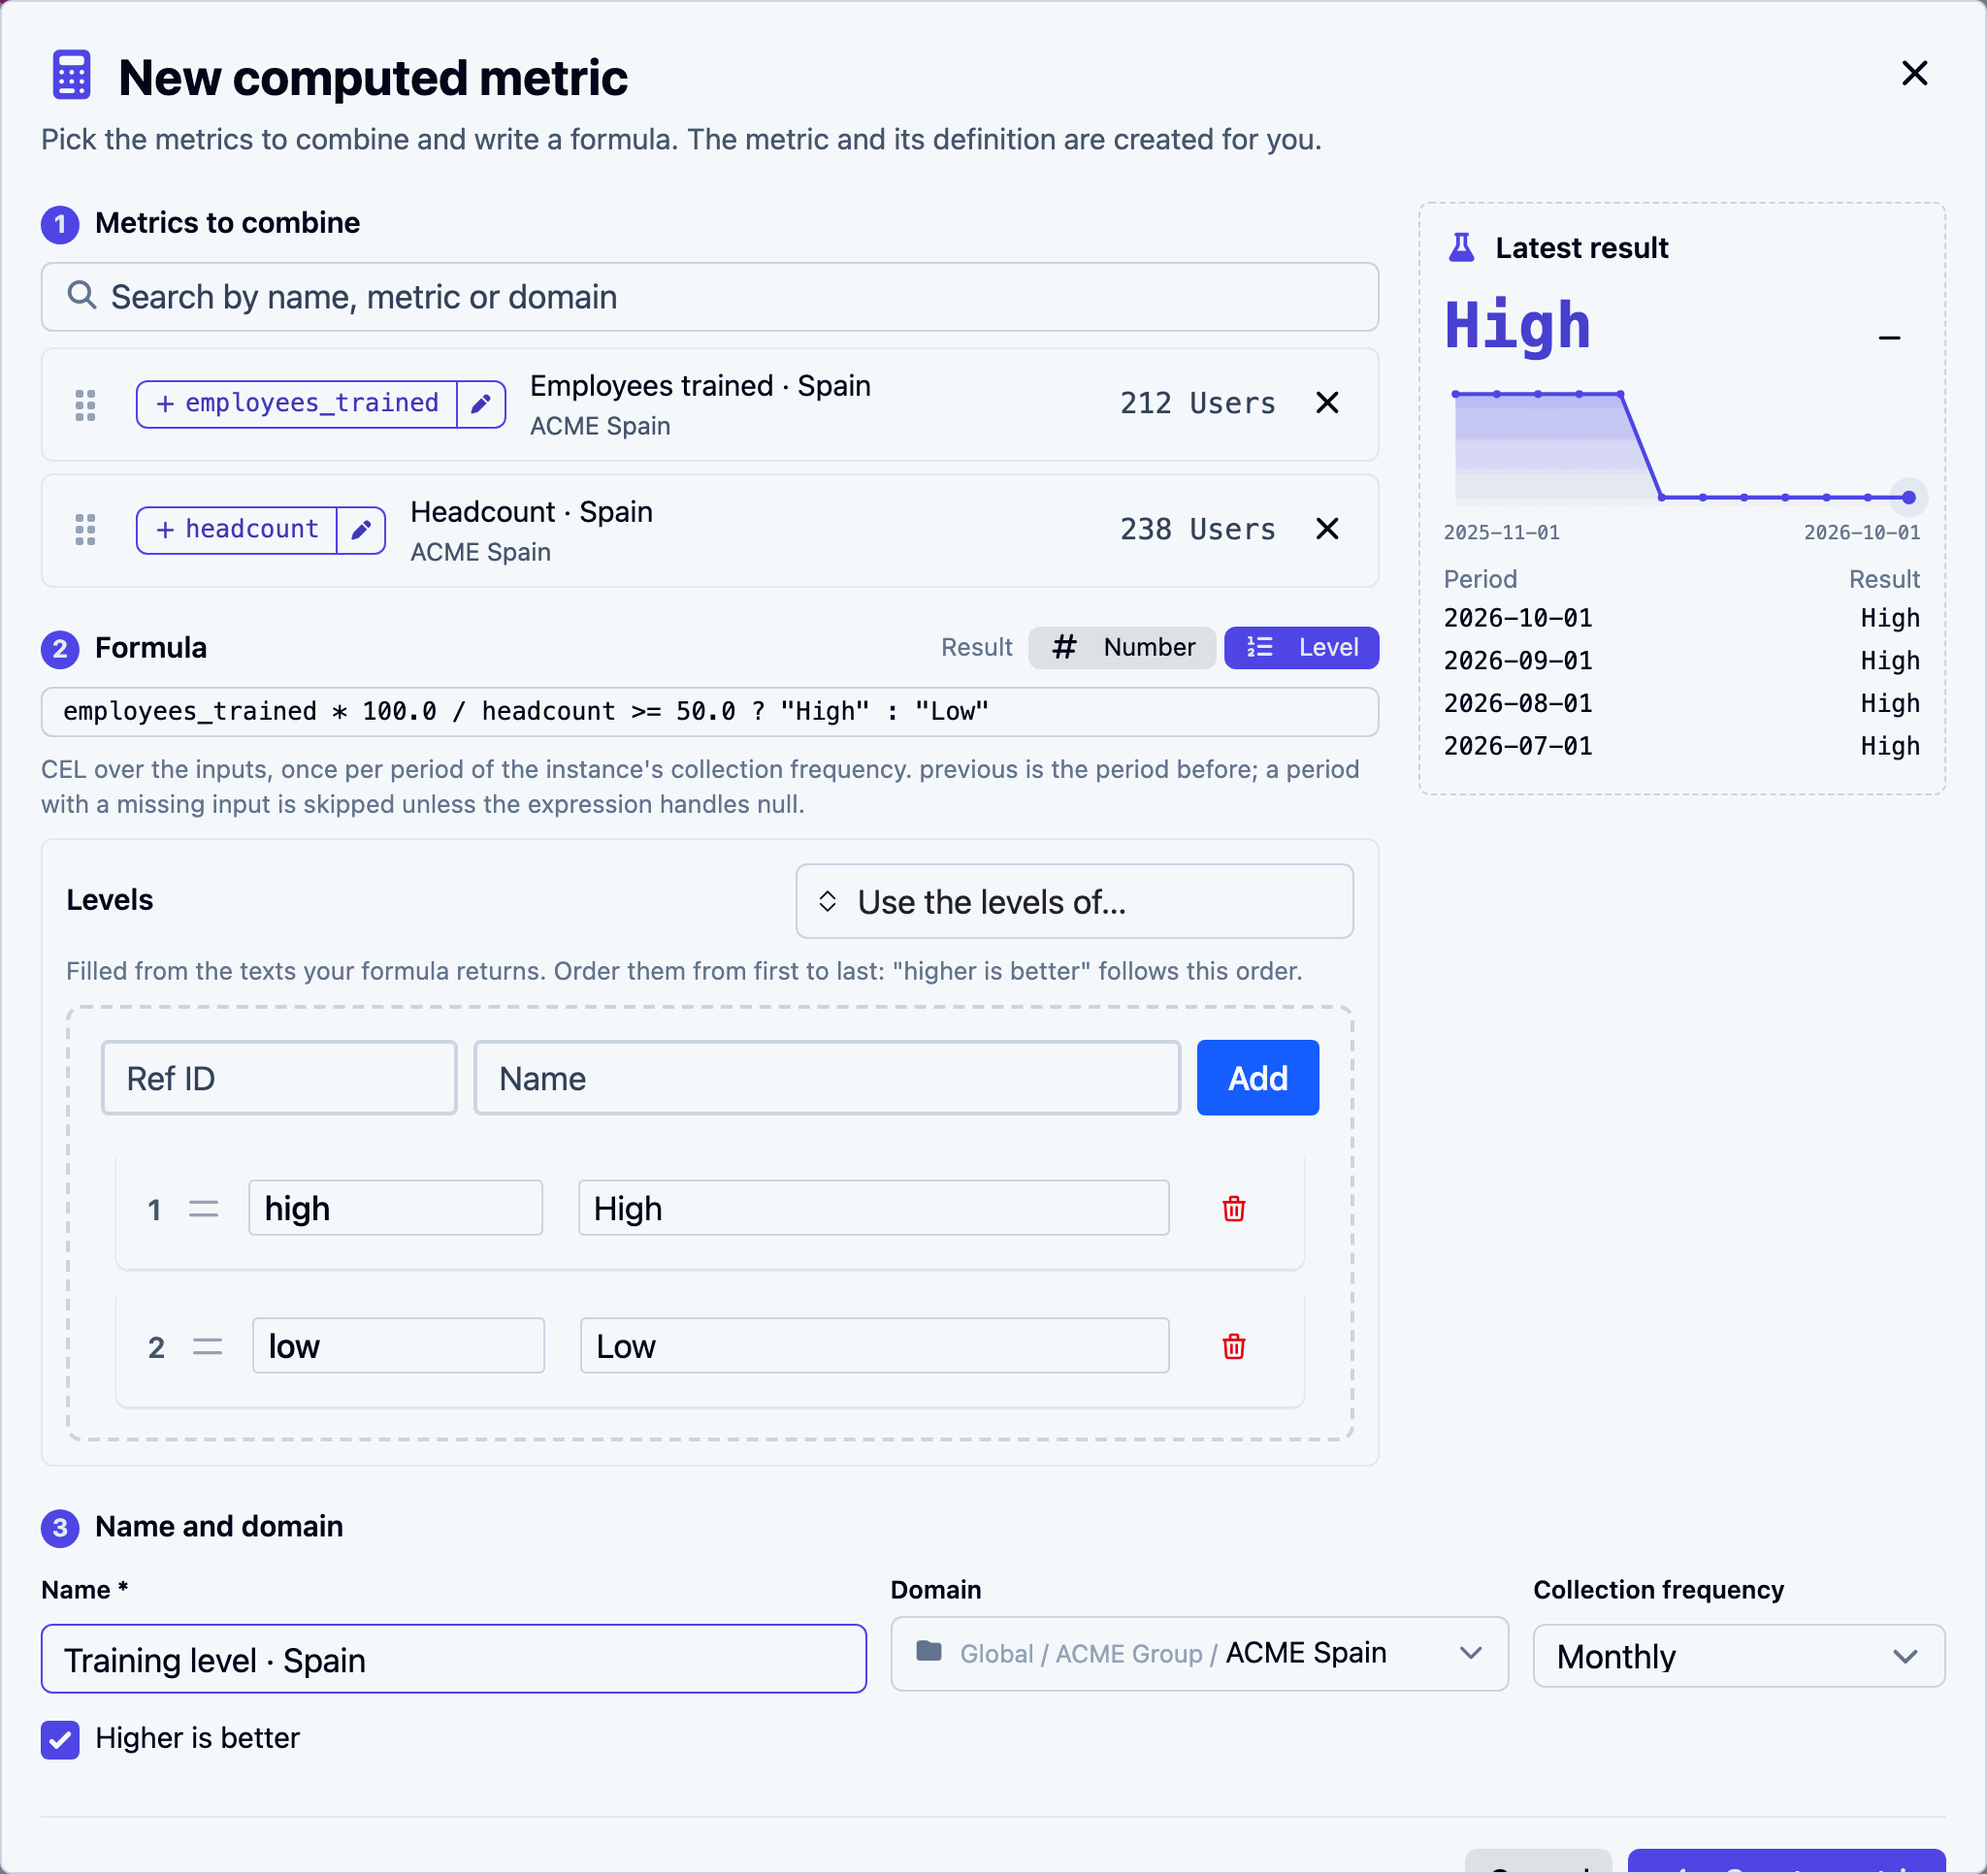
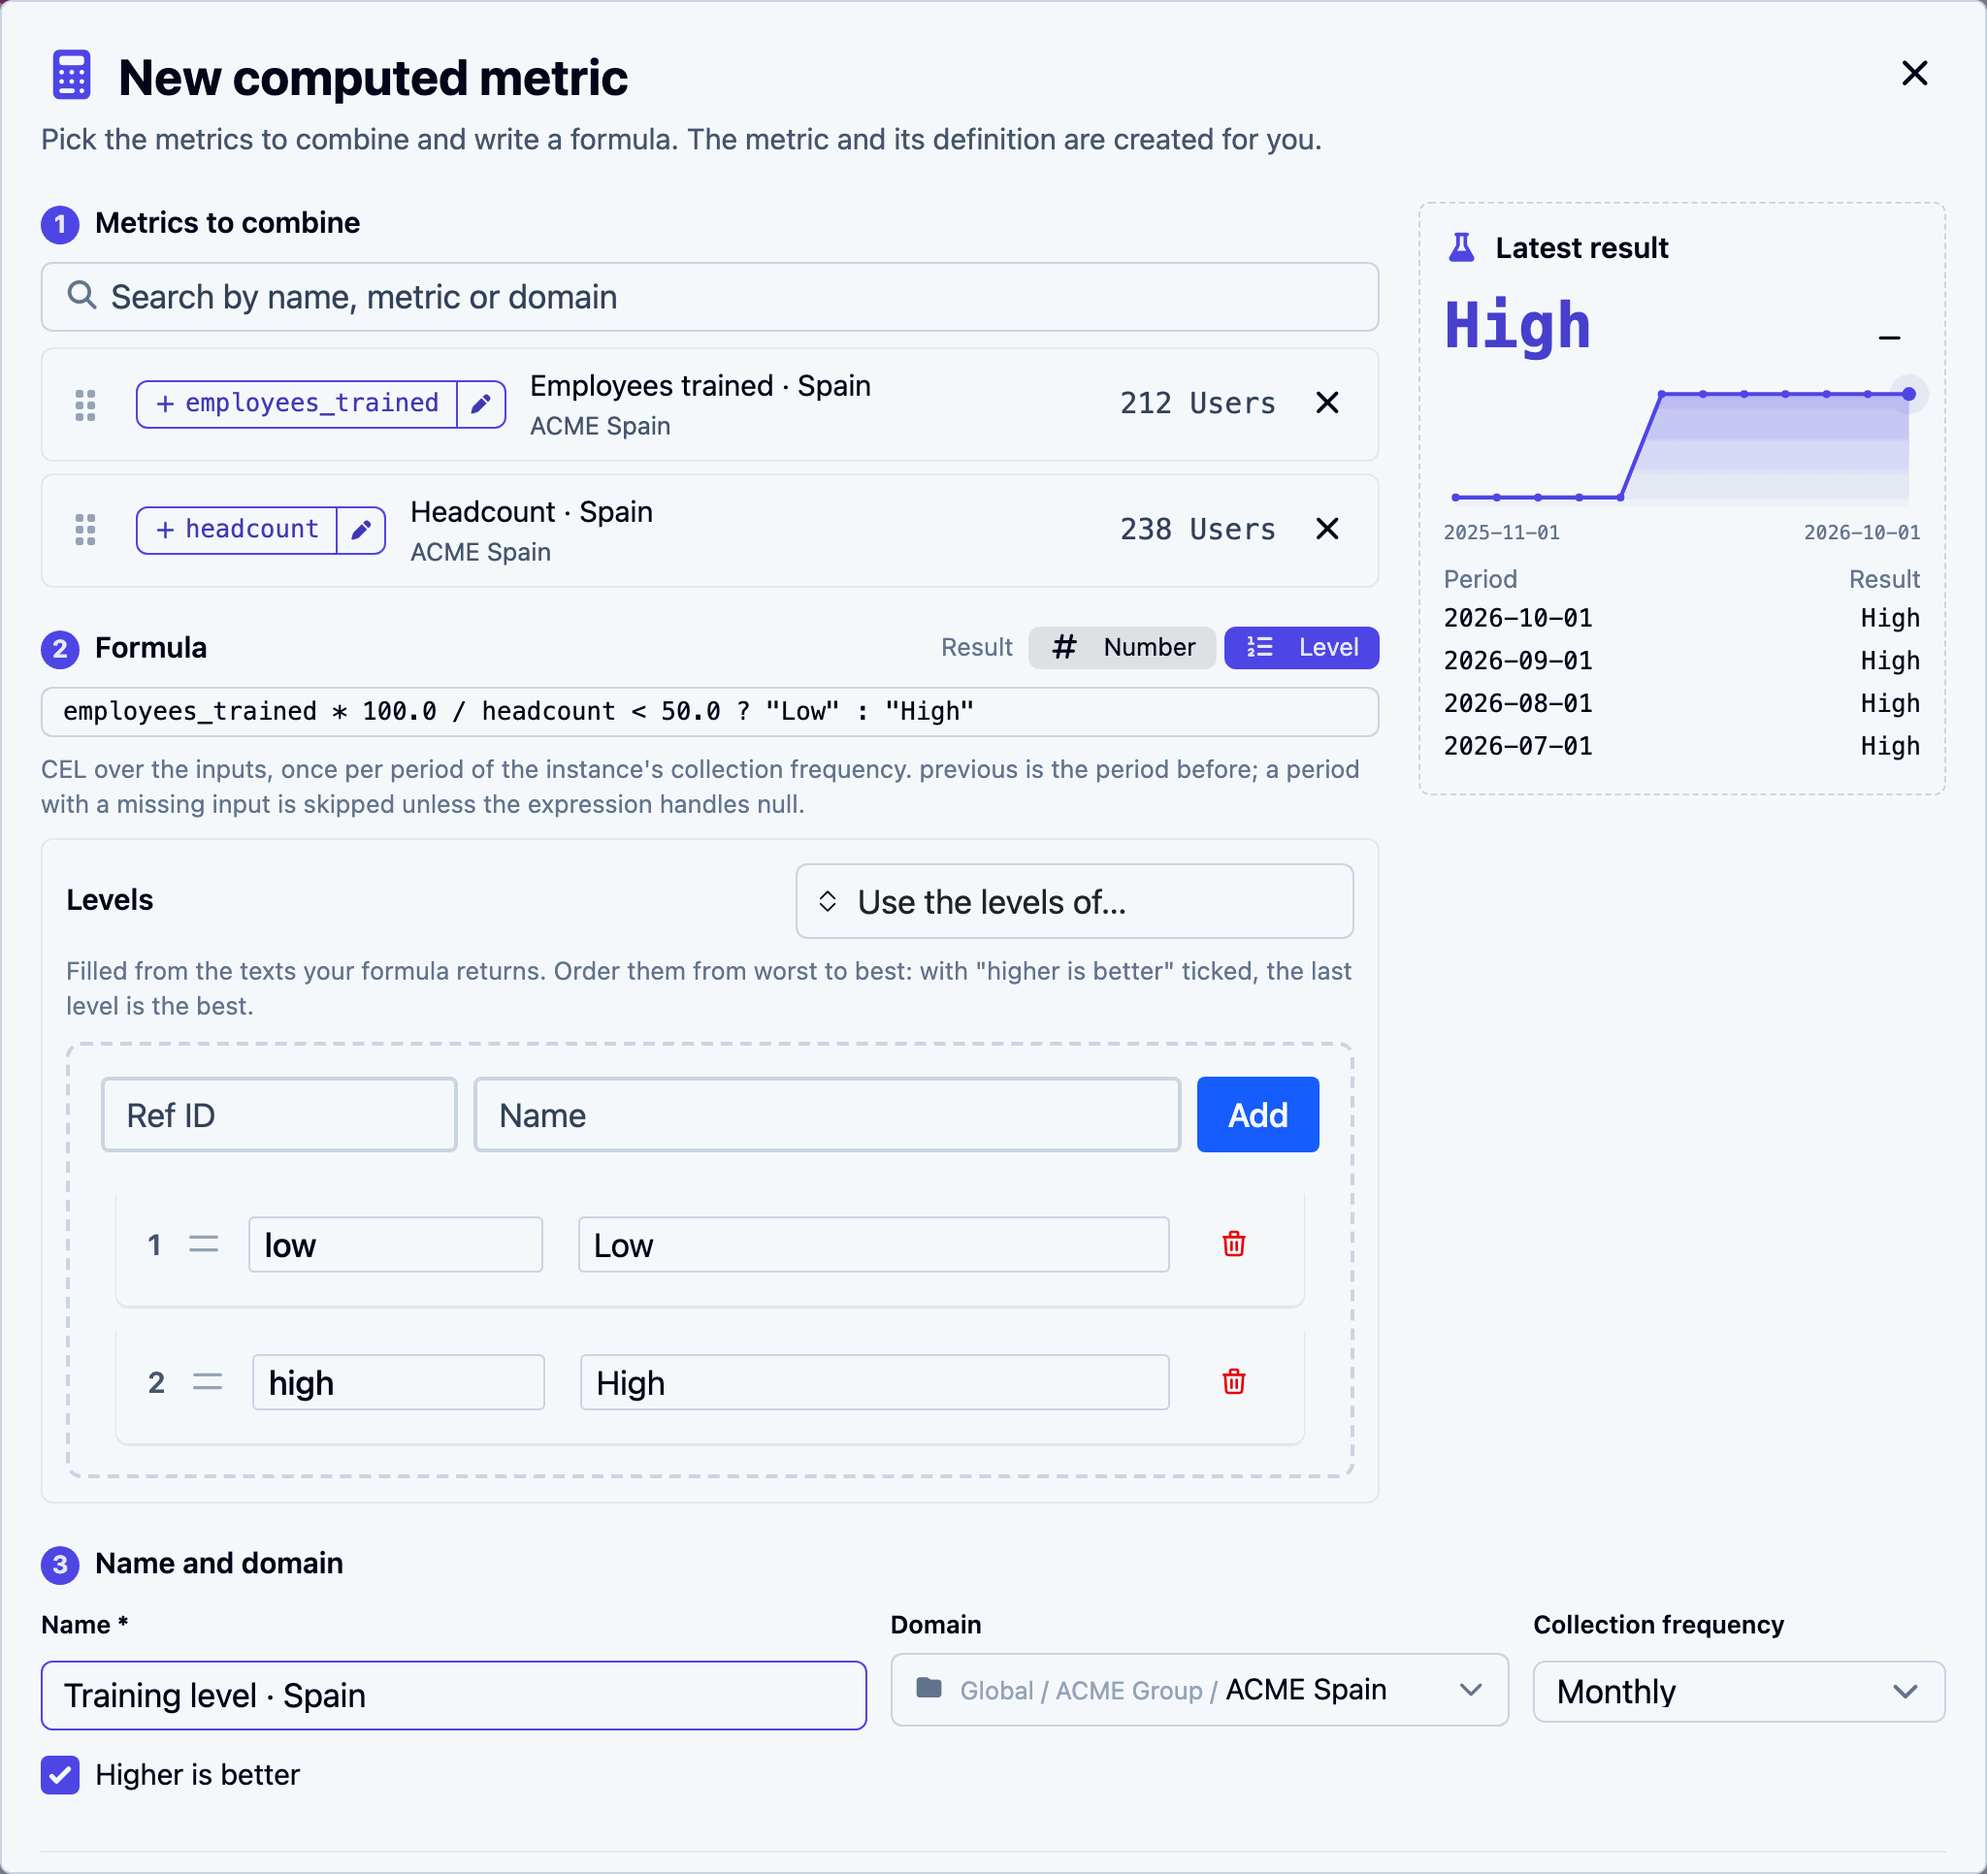
fix(metrology): list threshold levels worst first so higher is better reads them right

diff --git a/frontend/src/lib/utils/derived-metrics.ts b/frontend/src/lib/utils/derived-metrics.ts
@@ -469,5 +469,7 @@ export function levelIndex(value: unknown, levels: Level[]): number | null {
 export function levelStarter(keys: string[]): string {
 	if (!keys.length) return '';
 	const measure = keys.length >= 2 ? `${keys[0]} * 100.0 / ${keys[1]}` : keys[0];
-	return `${measure} >= 50.0 ? "High" : "Low"`;
+	// Worst level first: the levels fill in the order the texts appear, and
+	// "higher is better" (ticked by default) makes the last one the best.
+	return `${measure} < 50.0 ? "Low" : "High"`;
 }

diff --git a/frontend/src/lib/utils/derived-metrics.test.ts b/frontend/src/lib/utils/derived-metrics.test.ts
@@ -386,8 +386,8 @@ describe('a level result', () => {
 	});
 
 	it('starts a level formula from the picks', () => {
-		expect(levelStarter(['a', 'b'])).toBe('a * 100.0 / b >= 50.0 ? "High" : "Low"');
-		expect(levelStarter(['a'])).toBe('a >= 50.0 ? "High" : "Low"');
+		expect(levelStarter(['a', 'b'])).toBe('a * 100.0 / b < 50.0 ? "Low" : "High"');
+		expect(levelStarter(['a'])).toBe('a < 50.0 ? "Low" : "High"');
 		expect(levelStarter([])).toBe('');
 	});
 });

diff --git a/frontend/src/lib/components/Metrology/ComposeMetricEditor.svelte b/frontend/src/lib/components/Metrology/ComposeMetricEditor.svelte
@@ -1079,7 +1079,7 @@
 						scope={celScope}
 						testid="compose-expression"
 						placeholder={isLevel
-							? levelStarter(keys) || 'rate >= 50.0 ? "High" : "Low"'
+							? levelStarter(keys) || 'rate < 50.0 ? "Low" : "High"'
 							: keys.length >= 2
 								? `${keys[0]} * 100.0 / ${keys[1]}`
 								: keys.length

diff --git a/product-docs/features/metrics/creating.md b/product-docs/features/metrics/creating.md
@@ -42,7 +42,7 @@ Write the formula in the field, using the names from step 1. Suggestions appear 
 **Result** decides what the metric holds:
 
 - **Number**: a quantity, such as a percentage, a count or a duration.
-- **Level**: one of an ordered list of texts, such as *High* and *Low*. See [Levels](#levels).
+- **Level**: one of an ordered list of texts, such as *Low* and *High*. See [Levels](#levels).
 
 When the formula is empty, **Start from:** offers ready-made formulas over your picks:
 
@@ -52,7 +52,7 @@ When the formula is empty, **Start from:** offers ready-made formulas over your 
 | **Difference** | exactly two metrics | `first - second` |
 | **Sum** | two or more | every pick added up |
 | **Average** | two or more | the sum divided by the number of picks |
-| **Threshold** | a level result, one or more | `first >= 50.0 ? "High" : "Low"`, or the ratio of the first two against 50, to adjust |
+| **Threshold** | a level result, one or more | `first < 50.0 ? "Low" : "High"`, or the ratio of the first two against 50, to adjust. Low comes first, so High is the best level |
 
 The formula runs once per period of the metric's collection frequency, with each input's value for that period. `previous` is the result of the period before. The [Formula reference](formulas.md) covers the language: arithmetic, conditions, missing values and the available functions.
 
@@ -64,10 +64,10 @@ Write `100.0`, not `100`, when a division must keep its decimals. Two whole numb
 
 Choose **Result: Level** and the formula returns texts. The **Levels** box lists them, filled from the texts in your formula as you type.
 
-<figure><img src="../../.gitbook/assets/metrics-compose-levels.png" alt="A level formula returning High or Low, the levels list with High first and Low second, and the latest result showing High"><figcaption><p>A threshold turned into levels: the list follows the texts the formula returns</p></figcaption></figure>
+<figure><img src="../../.gitbook/assets/metrics-compose-levels.png" alt="A level formula returning Low or High, the levels list with Low first and High second, and the latest result showing High"><figcaption><p>A threshold turned into levels: the list follows the texts the formula returns, worst first</p></figcaption></figure>
 
 - Each level has a **Ref ID** and a **Name**. The formula may return either.
-- Order the levels from first to last by dragging them. **Higher is better** reads this order: ticked, each level is better than the one before it, so the last is the best; unticked, the first is the best. It decides whether a change of level shows as good or bad news.
+- Order the levels from worst to best by dragging them. They fill in the order the texts appear in the formula, so writing the worst outcome first saves a drag. **Higher is better** reads this order: ticked, each level is better than the one before it, so the last is the best; unticked, the first is the best. It decides whether a change of level shows as good or bad news.
 - Rename a level and the formula's text follows.
 - **Use the levels of…** copies the levels of an existing level metric, so several metrics share one scale. After that, the list no longer follows the formula: write the formula to return those names or references.
 - A text the formula returns that is not a level shows a warning, such as *'Medium' is not one of the levels*.

diff --git a/product-docs/guides/first-computed-metric.md b/product-docs/guides/first-computed-metric.md
@@ -58,8 +58,8 @@ A level reads better on a dashboard than a percentage: *On track* or *Behind*.
 
 1. On *Training coverage · Spain*, click **Use in a formula**. The window opens with the metric already picked and its name, `training_coverage_spain`, in the formula.
 2. Next to **Result**, choose **Level**.
-3. Write `training_coverage_spain >= 90.0 ? "On track" : "Behind"`. The **Levels** box fills with *On track* and *Behind*.
-4. Order the levels from worst to best: drag *Behind* above *On track*. With **Higher is better** ticked, the last level is the best, so moving up to *On track* shows as good news.
+3. Write `training_coverage_spain < 90.0 ? "Behind" : "On track"`. The **Levels** box fills with *Behind*, then *On track*, in the order the texts appear.
+4. Check the order: worst first, best last. With **Higher is better** ticked, the last level is the best, so moving up to *On track* shows as good news. Drag a level to change the order.
 5. Name it *Training status · Spain* and click **Create metric**.
 
 The status recomputes whenever the coverage does. Both metrics can go on a [dashboard](../features/dashboards.md).

diff --git a/product-docs/features/metrics/formulas.md b/product-docs/features/metrics/formulas.md
@@ -71,7 +71,7 @@ A metric whose result is a **Level** returns one of its levels, by:
 Names and Ref IDs are matched without regard to case. A text that is not one of the levels is an error, which the editor warns about as you type: *'Medium' is not one of the levels*.
 
 ```
-coverage >= 90.0 ? "On track" : coverage >= 60.0 ? "Behind" : "Off track"
+coverage < 60.0 ? "Off track" : coverage < 90.0 ? "Behind" : "On track"
 ```
 
 ## Examples
